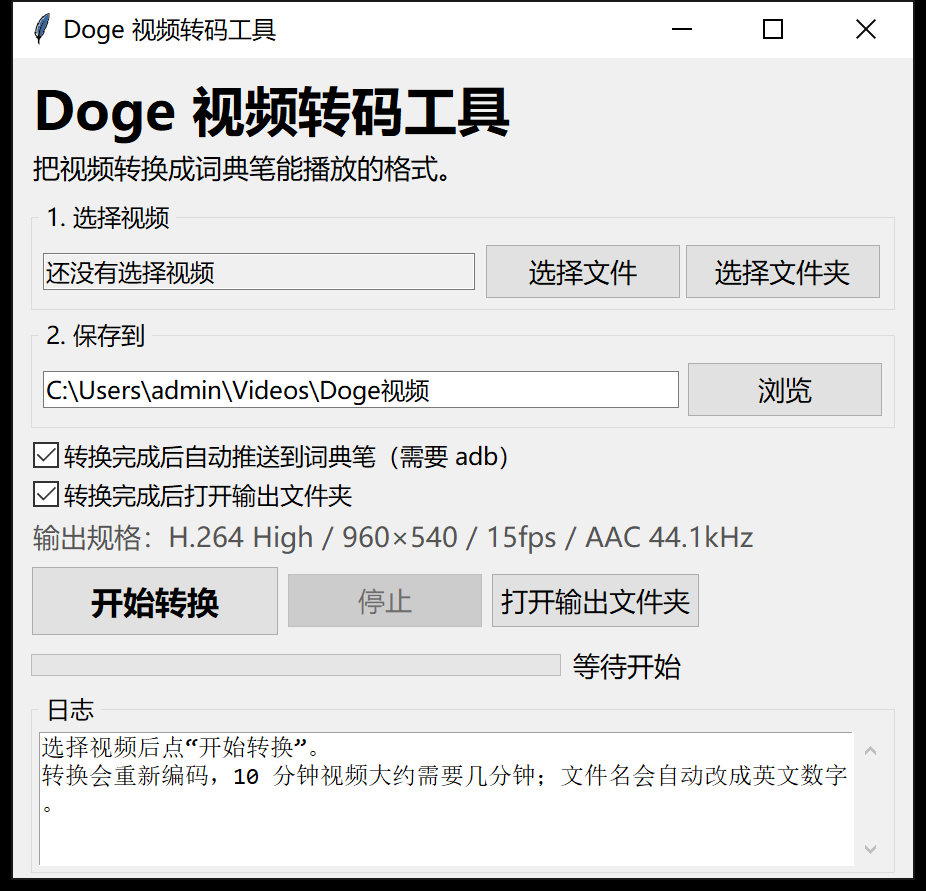
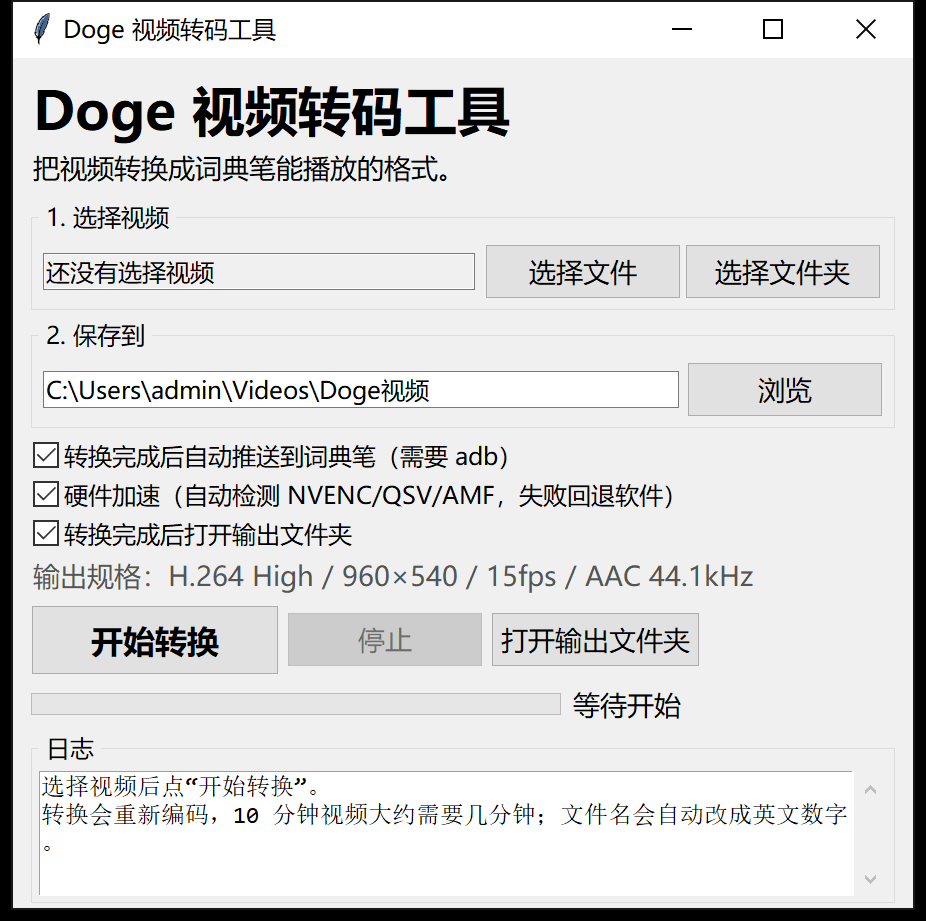
Add hardware acceleration and correct YDPX8 as X8

diff --git a/tools/gui_converter.py b/tools/gui_converter.py
@@ -32,6 +32,9 @@ FILTER = (
 )
 CREATE_NO_WINDOW = 0x08000000 if os.name == "nt" else 0
 
+HW_ENCODERS = ("h264_qsv", "h264_nvenc", "h264_amf")
+_hw_cache = {}
+
 
 def resource_path(name):
     candidates = []
@@ -107,20 +110,76 @@ def probe_duration(ffmpeg, src):
         return None
 
 
-def convert_one(ffmpeg, src, dst, on_progress, stop_event):
-    cmd = [
-        ffmpeg, "-y", "-hide_banner", "-loglevel", "error",
-        "-progress", "pipe:1", "-nostats",
-        "-i", str(src),
-        "-map", "0:v:0", "-map", "0:a:0?",
-        "-vf", FILTER,
-        "-c:v", "libx264",
+def detect_hw_encoder(ffmpeg):
+    """Return the first hardware H.264 encoder that can actually open, else None."""
+    key = str(ffmpeg)
+    if key in _hw_cache:
+        return _hw_cache[key]
+
+    try:
+        listed = subprocess.run(
+            [ffmpeg, "-hide_banner", "-encoders"],
+            capture_output=True, text=True, encoding="utf-8", errors="replace",
+            timeout=20, creationflags=CREATE_NO_WINDOW,
+        ).stdout or ""
+    except Exception:
+        _hw_cache[key] = None
+        return None
+
+    for encoder in HW_ENCODERS:
+        if encoder not in listed:
+            continue
+        test = [
+            ffmpeg, "-y", "-hide_banner", "-loglevel", "error",
+            "-f", "lavfi", "-i", "color=c=black:s=960x540:r=15:d=0.5",
+            "-an", "-c:v", encoder,
+            "-profile:v", "high", "-level", "3.1", "-pix_fmt", "yuv420p",
+            "-b:v", "600k", "-maxrate", "800k", "-bufsize", "1600k",
+            "-f", "null", "-",
+        ]
+        try:
+            result = subprocess.run(
+                test, capture_output=True, text=True, encoding="utf-8",
+                errors="replace", timeout=20, creationflags=CREATE_NO_WINDOW,
+            )
+            if result.returncode == 0:
+                _hw_cache[key] = encoder
+                return encoder
+        except Exception:
+            pass
+
+    _hw_cache[key] = None
+    return None
+
+
+def encoder_options(encoder):
+    base = [
         "-profile:v", "high",
         "-level", "3.1",
         "-pix_fmt", "yuv420p",
         "-b:v", "600k",
         "-maxrate", "800k",
         "-bufsize", "1600k",
+    ]
+    if encoder == "h264_qsv":
+        return ["-c:v", encoder, "-preset", "medium"] + base
+    if encoder == "h264_nvenc":
+        return ["-c:v", encoder, "-preset", "p5", "-tune", "hq", "-rc", "vbr"] + base
+    if encoder == "h264_amf":
+        return ["-c:v", encoder, "-quality", "balanced", "-rc", "vbr_peak"] + base
+    return ["-c:v", "libx264", "-preset", "medium"] + base
+
+
+def build_command(ffmpeg, src, dst, encoder):
+    cmd = [
+        ffmpeg, "-y", "-hide_banner", "-loglevel", "error",
+        "-progress", "pipe:1", "-nostats",
+        "-i", str(src),
+        "-map", "0:v:0", "-map", "0:a:0?",
+        "-vf", FILTER,
+    ]
+    cmd += encoder_options(encoder)
+    cmd += [
         "-c:a", "aac",
         "-b:a", "96k",
         "-ar", "44100",
@@ -129,10 +188,11 @@ def convert_one(ffmpeg, src, dst, on_progress, stop_event):
         "-shortest",
         str(dst),
     ]
+    return cmd
 
-    duration = probe_duration(ffmpeg, src)
+
+def run_ffmpeg(cmd, duration, on_progress, stop_event):
     errors = []
-
     try:
         proc = subprocess.Popen(
             cmd,
@@ -146,7 +206,7 @@ def convert_one(ffmpeg, src, dst, on_progress, stop_event):
             creationflags=CREATE_NO_WINDOW,
         )
     except Exception as exc:
-        return False, f"无法启动 ffmpeg：{exc}"
+        return 1, [f"无法启动 ffmpeg：{exc}"]
 
     for line in proc.stdout:
         if stop_event.is_set():
@@ -178,63 +238,45 @@ def convert_one(ffmpeg, src, dst, on_progress, stop_event):
 
     code = proc.wait()
     if stop_event.is_set():
-        return False, "已停止"
-    if code != 0:
-        detail = "\n".join(errors[-8:]) or f"ffmpeg 退出码 {code}"
-        return False, detail
-    return True, ""
+        return -1, ["已停止"]
+    return code, errors
 
 
-def push_to_device(files, output_dir):
-    adb = find_adb()
-    if not adb:
-        return False, "电脑上没有找到 adb。可以手动把转换后的文件复制到词典笔的 /userdisk/Favorite/Video。"
+def convert_one(ffmpeg, src, dst, on_progress, stop_event, hw_encoder=None):
+    duration = probe_duration(ffmpeg, src)
+    attempts = ([hw_encoder] if hw_encoder else []) + ["libx264"]
+    last_errors = []
 
-    try:
-        check = subprocess.run(
-            [adb, "devices"],
-            capture_output=True, text=True, encoding="utf-8", errors="replace",
-            timeout=20, creationflags=CREATE_NO_WINDOW,
-        )
-        devices = [
-            line.split("\t")[0]
-            for line in (check.stdout or "").splitlines()
-            if "\tdevice" in line
-        ]
-        if not devices:
-            return False, "没有检测到词典笔。请连接 USB、打开 ADB，然后重试。"
-        subprocess.run(
-            [adb, "shell", "mkdir", "-p", DEVICE_DIR],
-            capture_output=True, text=True, encoding="utf-8", errors="replace",
-            timeout=20, creationflags=CREATE_NO_WINDOW,
-        )
-        for path in files:
-            path = Path(path)
-            # Push to an explicit destination file, not just a directory.
-            # Some adb versions mishandle a directory argument with a trailing
-            # slash and can drop the extension from the local filename.
-            name = path.name
-            if not name.lower().endswith(".mp4"):
-                name += ".mp4"
-            remote = DEVICE_DIR + "/" + name
-            result = subprocess.run(
-                [adb, "push", str(path), remote],
-                capture_output=True, text=True, encoding="utf-8", errors="replace",
-                timeout=120, creationflags=CREATE_NO_WINDOW,
-            )
-            if result.returncode != 0:
-                return False, f"推送失败：{name}\n{(result.stderr or result.stdout or '').strip()}"
-        return True, f"已推送到词典笔 {DEVICE_DIR}"
-    except Exception as exc:
-        return False, f"adb 推送失败：{exc}"
+    for index, encoder in enumerate(attempts):
+        if stop_event.is_set():
+            return False, "已停止"
+
+        cmd = build_command(ffmpeg, src, dst, encoder)
+        code, errors = run_ffmpeg(cmd, duration, on_progress, stop_event)
+        if code == 0:
+            if hw_encoder and index > 0:
+                return True, "libx264（硬件编码失败，已回退）"
+            return True, encoder
+
+        last_errors = errors or [f"ffmpeg 退出码 {code}"]
+        try:
+            if dst.exists():
+                dst.unlink()
+        except Exception:
+            pass
+        # Try software encoding after a hardware failure.
+        if encoder == "libx264":
+            break
+
+    return False, "\n".join(last_errors[-8:]) or "ffmpeg 失败"
 
 
 class ConverterApp:
     def __init__(self, root):
         self.root = root
         self.root.title(APP_TITLE)
-        self.root.geometry("900x820")
-        self.root.minsize(760, 700)
+        self.root.geometry("900x850")
+        self.root.minsize(760, 720)
 
         self.input_files = []
         self.input_dir = None
@@ -305,6 +347,7 @@ class ConverterApp:
 
         self.push_var = tk.BooleanVar(value=bool(self.adb))
         self.open_var = tk.BooleanVar(value=True)
+        self.hw_var = tk.BooleanVar(value=True)
 
         self.push_check = ttk.Checkbutton(
             option_frame,
@@ -315,6 +358,12 @@ class ConverterApp:
         if not self.adb:
             self.push_check.state(["disabled"])
             self.push_var.set(False)
+
+        ttk.Checkbutton(
+            option_frame,
+            text="硬件加速（自动检测 NVENC/QSV/AMF，失败回退软件）",
+            variable=self.hw_var,
+        ).pack(anchor="w", pady=(2, 0))
 
         ttk.Checkbutton(
             option_frame,
@@ -442,15 +491,26 @@ class ConverterApp:
         self.log.configure(state="disabled")
         self.append_log(f"共 {len(files)} 个视频，输出到：{output}")
 
+        hw_enabled = self.hw_var.get()
         thread = threading.Thread(
-            target=self._worker, args=(files, output, ffmpeg), daemon=True
+            target=self._worker, args=(files, output, ffmpeg, hw_enabled), daemon=True
         )
         thread.start()
 
-    def _worker(self, files, output, ffmpeg):
+    def _worker(self, files, output, ffmpeg, hw_enabled):
         total = len(files)
         converted = []
         failed = []
+
+        hw_encoder = None
+        if hw_enabled:
+            hw_encoder = detect_hw_encoder(ffmpeg)
+            if hw_encoder:
+                self.queue.put(("log", "硬件加速：%s" % hw_encoder))
+            else:
+                self.queue.put(("log", "未检测到可用硬件编码器，使用 libx264"))
+        else:
+            self.queue.put(("log", "已关闭硬件加速，使用 libx264"))
 
         for index, src in enumerate(files, 1):
             if self.stop_event.is_set():
@@ -463,13 +523,13 @@ class ConverterApp:
                 value = ((index - 1) + max(0.0, min(1.0, fraction))) / total * 100
                 self.queue.put(("progress", value))
 
-            ok, error = convert_one(ffmpeg, src, dst, on_progress, self.stop_event)
+            ok, info = convert_one(ffmpeg, src, dst, on_progress, self.stop_event, hw_encoder)
             if self.stop_event.is_set():
                 break
 
             if ok:
                 converted.append(dst)
-                self.queue.put(("log", "  完成"))
+                self.queue.put(("log", "  完成（%s）" % info if info else "  完成"))
             else:
                 failed.append((src, error))
                 self.queue.put(("log", "  失败：" + error.replace("\n", " | ")))
@@ -555,7 +615,7 @@ class ConverterApp:
         self.root.destroy()
 
 
-def run_headless(input_path, output_path, ffmpeg):
+def run_headless(input_path, output_path, ffmpeg, hw_enabled=True):
     ffmpeg = ffmpeg or find_ffmpeg()
     src = Path(input_path)
     output = Path(output_path)
@@ -580,17 +640,19 @@ def run_headless(input_path, output_path, ffmpeg):
         say("no video files")
         return 1
 
+    hw_encoder = detect_hw_encoder(ffmpeg) if hw_enabled else None
+    say("hardware: " + (hw_encoder or "libx264 (software)"))
     stop_event = threading.Event()
     failed = 0
     for index, path in enumerate(files, 1):
         dst = output / f"{index:03d}_{safe_stem(path)}.mp4"
         say(f"[{index}/{len(files)}] {path.name} -> {dst.name}")
-        ok, error = convert_one(ffmpeg, path, dst, lambda fraction: None, stop_event)
+        ok, info = convert_one(ffmpeg, path, dst, lambda fraction: None, stop_event, hw_encoder)
         if ok:
-            say("  done")
+            say("  done (" + str(info) + ")")
         else:
             failed += 1
-            say("  failed: " + error)
+            say("  failed: " + info)
     say(f"finished: {len(files) - failed} ok, {failed} failed")
     return 0 if failed == 0 else 2
 
@@ -599,10 +661,11 @@ def main():
     parser = argparse.ArgumentParser(description=APP_TITLE)
     parser.add_argument("--headless", nargs=2, metavar=("INPUT", "OUTPUT"), help="no GUI, convert input to output")
     parser.add_argument("--ffmpeg", default=None, help="path to ffmpeg")
+    parser.add_argument("--no-hw", action="store_true", help="disable hardware acceleration in headless mode")
     args = parser.parse_args()
 
     if args.headless:
-        raise SystemExit(run_headless(args.headless[0], args.headless[1], args.ffmpeg))
+        raise SystemExit(run_headless(args.headless[0], args.headless[1], args.ffmpeg, not args.no_hw))
 
     if os.name == "nt":
         try:

diff --git a/README.md b/README.md
@@ -12,7 +12,7 @@
 
 一个为有道词典笔 OS 做的**本地视频启动器**。它本身不解码视频，而是把选中的本地 MP4 交给系统自带的「视频播放器」播放，因此可以使用硬件解码、声音和系统播放器的进度条。
 
-已验证设备：**YDPX8-1（A7 Pro 类机型）/ OTA 4.61.0**。其他机型、其他固件请先看下面的限制。
+已验证设备：**YDPX8-1（X8）/ OTA 4.61.0**。其他机型、其他固件请先看下面的限制。
 
 ## 界面
 
@@ -87,6 +87,25 @@ DogeVideoConverter.exe（从 Releases 下载）
 转换后的文件名会自动改成 `001_xxx.mp4` 这种英文数字格式。
 
 界面上的「输出规格」已经固定为系统播放器验证过的参数，普通用户不需要改。
+
+### 硬件加速
+
+转码工具会自动检测并优先使用硬件 H.264 编码器：
+
+```text
+Intel Quick Sync  -> h264_qsv
+NVIDIA NVENC      -> h264_nvenc
+AMD AMF           -> h264_amf
+```
+
+- 默认勾选「硬件加速」；
+- 启动转换前会实际试开一次编码器，不是只看 ffmpeg 的编码器列表；
+- 如果当前显卡/驱动不可用，会自动回退到 `libx264` 软件编码，不会中断任务；
+- 如果某个文件硬件编码失败，也会删除半成品并自动用软件编码重试；
+- 输出仍然是 H.264 High / 960×540 / 15fps / AAC，不改变词典笔兼容性；
+- 没有独显或显卡驱动异常时，日志会明确写“未检测到可用硬件编码器，使用 libx264”。
+
+> 硬件编码器在不同显卡/驱动上的行为不完全一致。第一次使用时建议拿一个短视频在词典笔上试播，确认画面和进度正常后再批量转换。
 
 > 如果 Windows 或杀毒软件提示未知程序，这是 PyInstaller 打包的单文件 exe 的常见误报；可以检查源码 `tools/gui_converter.py` 后自行重新打包。
 
@@ -288,7 +307,7 @@ adb shell ls -l /userdisk/Favorite/Video
   - 播放前断网：可以正常打开并播放本地视频；
   - 播放过程中断网：系统播放器会提示“网络未连接”，但不影响已经缓冲/本地文件的播放。
   - 本程序自身不联网，也不上传视频。
-- **兼容性**：只在一台 YDPX8-1 / 4.61.0 上验证。别的机型可能没有这个播放器 appid，或页面参数不同。
+- **兼容性**：只在一台 YDPX8-1（X8）/ 4.61.0 上验证。别的机型可能没有这个播放器 appid，或页面参数不同。
 - **风险**：不兼容的视频可能让播放器崩溃甚至重启设备。请先用 5 秒短片验证，再放长视频。
 
 ## 许可与致谢

diff --git a/docs/PenUniverse-post.md b/docs/PenUniverse-post.md
@@ -1,6 +1,6 @@
 # 全网首发 | 有道词典笔视频播放器小程序：Doge视频
 
-> 设备：有道词典笔 YDPX8-1（A7 Pro 级），OTA 4.61.0，Linux armv7l，936×280  
+> 设备：有道词典笔 YDPX8-1（X8），OTA 4.61.0，Linux armv7l，936×280  
 > 项目：**Doge视频**（本地视频启动器）  
 > 开源：https://github.com/yangsongh/doge-video  
 > 下载：https://github.com/yangsongh/doge-video/releases/latest
@@ -87,6 +87,8 @@ faststart
 所以项目里带了一个 Windows 图形转码工具，内置 ffmpeg，不需要用户装 Python，也不需要懂命令行：
 
 ![转码工具](https://raw.githubusercontent.com/yangsongh/doge-video/main/docs/gui.png)
+
+转码工具支持**硬件加速**：自动检测 Intel QSV / NVIDIA NVENC / AMD AMF，实际试开编码器；不可用时自动回退 `libx264`，单个文件硬件编码失败也会用软件重试。默认勾选，输出规格仍是 H.264 High / 960×540 / 15fps，不改变兼容性。
 
 ---
 
@@ -234,7 +236,7 @@ bash tools/install_to_device.sh ./8001145141919820.1_0_0.amr
 
 ## 已知限制
 
-- 只在 YDPX8-1 / 4.61.0 上验证；别的机型可能没有这个播放器 appid，或页面参数不同；
+- 只在 YDPX8-1（X8）/ 4.61.0 上验证；别的机型可能没有这个播放器 appid，或页面参数不同；
 - 系统播放器是私有 App，系统 OTA 后页面/参数可能变化；
 - 这是 sideload 小程序，不是官方上架应用；
 - 清理开关是测试开关，不是官方长期方案；
